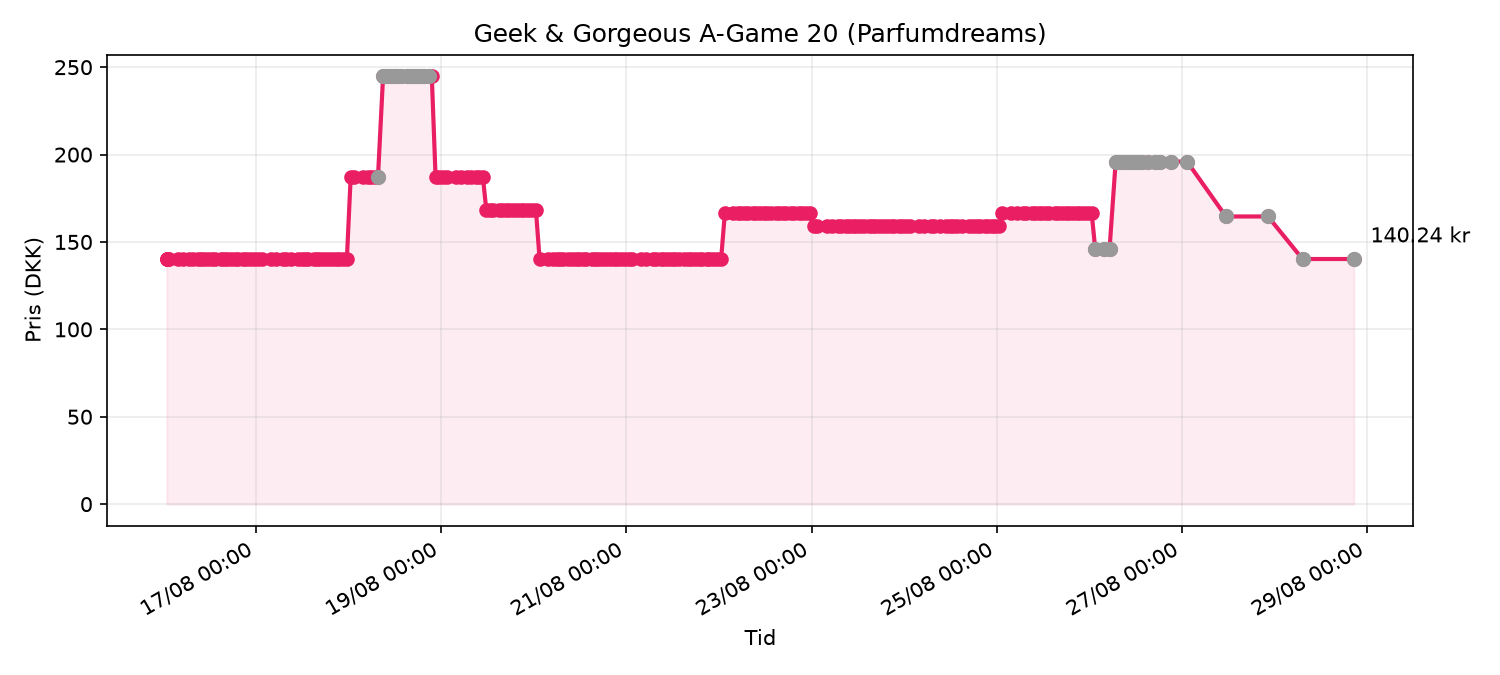
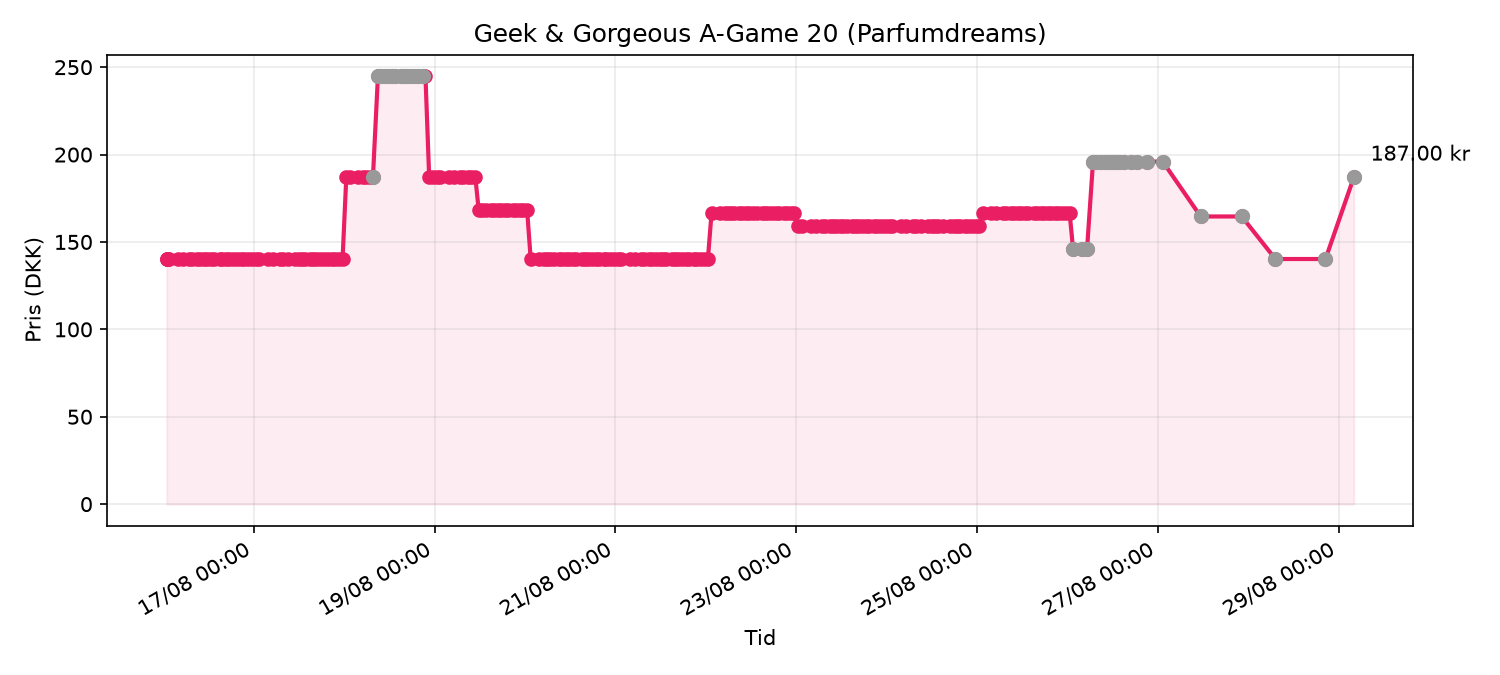
price check 2026-08-29T02:03Z

diff --git a/data/price_chart.html b/data/price_chart.html
@@ -13,7 +13,7 @@
 </head>
 <body>
   <h1>Geek & Gorgeous A-Game 20 (Parfumdreams)</h1>
-  <p class="meta">Senest tjekket: 28/08/2026 20:32 · Pris: <strong>140.24 kr</strong> · udsolgt</p>
+  <p class="meta">Senest tjekket: 29/08/2026 04:03 · Pris: <strong>187.00 kr</strong> · udsolgt</p>
   
   <p><a href="https://www.parfumdreams.dk/Geek-Gorgeous/Samlinger/101-aktive-stoffer/A-Game-20-Serum/index_137083.aspx?variation=221879">Åbn produkt på Parfumdreams</a></p>
   <img src="price_chart.png" alt="Prisgraf">
